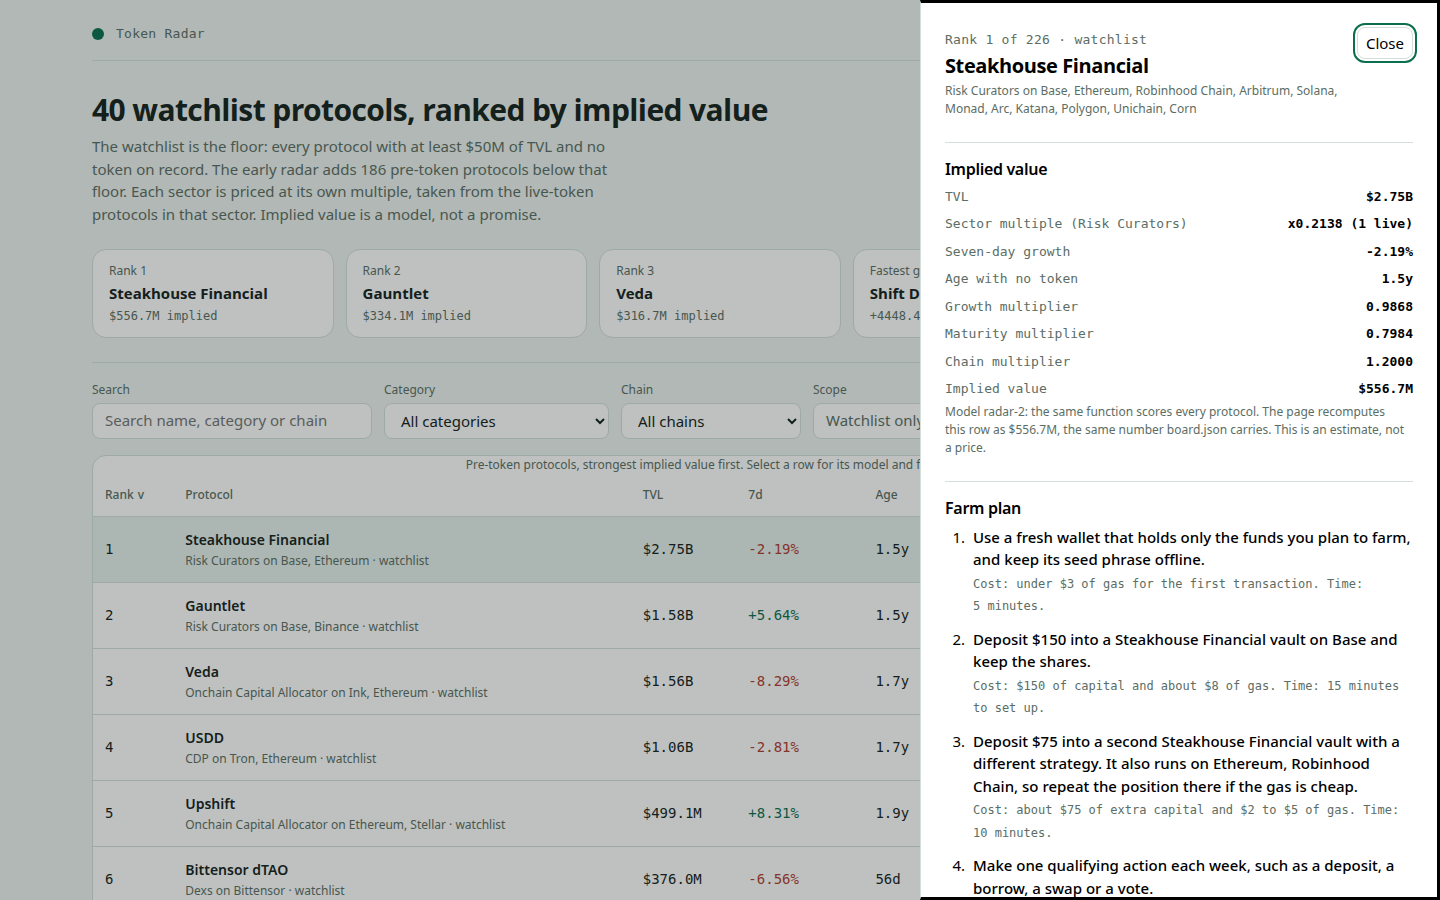
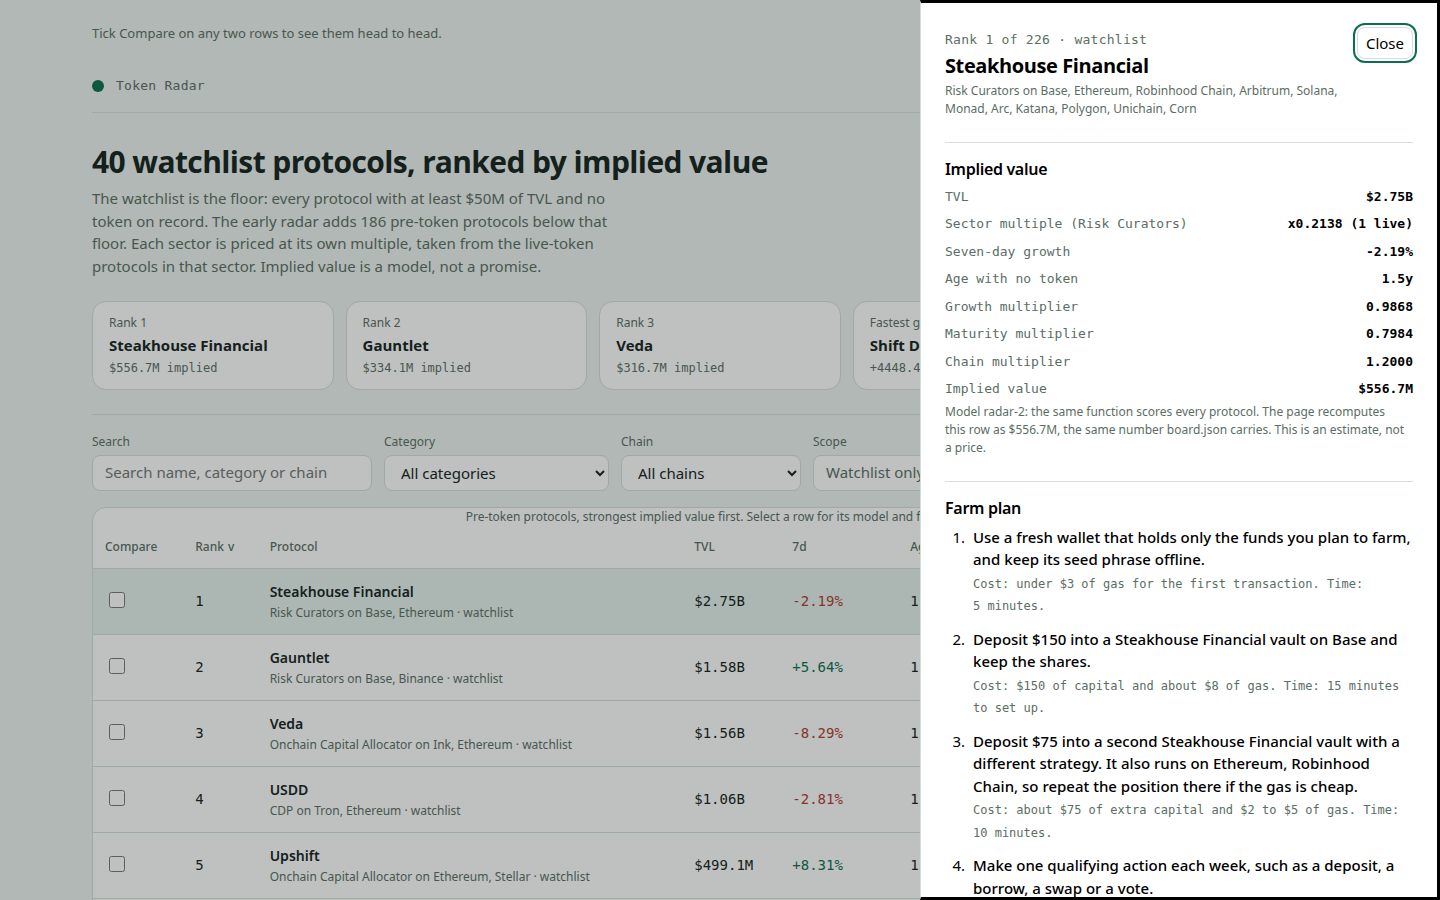
token-radar-01: add protocol compare and CSV export

diff --git a/dashboard/app.js b/dashboard/app.js
@@ -13,7 +13,7 @@
   var DATA = window.RADAR;
   if (!DATA) return;
   var app = document.getElementById('board');
-  var state = { q: '', category: 'all', chain: 'all', watchlistOnly: false, tab: 'pre-token', sort: 'implied', dir: -1, selected: null };
+  var state = { q: '', category: 'all', chain: 'all', watchlistOnly: false, tab: 'pre-token', sort: 'implied', dir: -1, selected: null, compare: new Set(), compareNote: '' };
 
   var usd = new Intl.NumberFormat('en-US', { style: 'currency', currency: 'USD', maximumFractionDigits: 0 });
   function fmtUsd(n) {
@@ -138,6 +138,112 @@
       { text: "Watch " + p.name + "'s own announcements for a token or points update, and ignore claim links that arrive by message or email.", cost: 'nothing to watch', time: '5 minutes a week' },
       { text: 'Write the wallet, the dates and every transaction in a farm log so you can repeat the position or unwind it.', cost: 'nothing but the log', time: '5 minutes' }
     ].map(stepText);
+  }
+
+  // Protocol comparison: pick at most two rows and see them side by side.
+  // The choice lives in a Set of slugs so a row can never be picked twice,
+  // and the panel only appears once exactly two are picked.
+  function rowBySlug(slug) {
+    return DATA.rows.filter(function (r) { return r.slug === slug; })[0] || null;
+  }
+  function toggleCompare(slug, picked) {
+    if (picked) {
+      if (state.compare.size >= 2) {
+        state.compareNote = 'Compare holds at most two protocols — clear one first.';
+        render();
+        return;
+      }
+      state.compare.add(slug);
+      state.compareNote = '';
+    } else {
+      state.compare.delete(slug);
+      state.compareNote = '';
+    }
+    render();
+  }
+  function clearCompare() {
+    state.compare.clear();
+    state.compareNote = '';
+    render();
+  }
+  function leadLine(label, a, b, valueOf, fmt) {
+    var va = valueOf(a), vb = valueOf(b);
+    if (va === null || va === undefined || vb === null || vb === undefined || !isFinite(va) || !isFinite(vb)) return label + ': not comparable here.';
+    if (va === vb) return label + ': tied at ' + fmt(va) + '.';
+    var lead = va > vb ? a : b, trail = va > vb ? b : a;
+    var top = va > vb ? va : vb, bottom = va > vb ? vb : va;
+    return label + ': ' + lead.name + ' leads ' + trail.name + ' (' + fmt(top) + ' vs ' + fmt(bottom) + ').';
+  }
+  function compareCard(row) {
+    function fact(label, value) {
+      return el('div', { class: 'cmp-fact' }, el('span', { text: label }), el('b', { class: 'num', text: value }));
+    }
+    return el('article', { class: 'cmp-card' },
+      el('h3', { text: '#' + row.rank + ' ' + row.name }),
+      el('p', { class: 'sub', text: (row.category || 'Other') + ' · ' + (row.chains || []).join(', ') }),
+      fact('TVL', fmtUsd(row.tvl_usd)),
+      fact('7-day change', fmtPct(row.change_7d)),
+      fact('Chains', String((row.chains || []).length)),
+      fact('Implied value', fmtUsd(row.implied_value_usd)),
+      fact('Rank', '#' + row.rank),
+      fact('Farm steps', String(farmSteps(row).length))
+    );
+  }
+  function syncComparePanel() {
+    var slot = document.getElementById('compare-panel');
+    if (!slot) return;
+    slot.textContent = '';
+    if (state.compare.size < 2) {
+      if (!state.compareNote) { slot.hidden = true; return; }
+      slot.hidden = false;
+      slot.appendChild(el('p', { class: 'cmp-hint', text: state.compareNote }));
+      return;
+    }
+    var picked = Array.from(state.compare).map(rowBySlug).filter(Boolean);
+    if (picked.length < 2) { slot.hidden = true; return; }
+    var a = picked[0], b = picked[1];
+    var verdicts = [
+      leadLine('TVL', a, b, function (r) { return r.tvl_usd; }, fmtUsd),
+      leadLine('Implied value', a, b, function (r) { return r.implied_value_usd; }, fmtUsd),
+      leadLine('7-day growth', a, b, function (r) { return r.change_7d; }, fmtPct),
+      leadLine('Chains', a, b, function (r) { return (r.chains || []).length; }, function (n) { return String(n); })
+    ];
+    slot.hidden = false;
+    slot.appendChild(el('div', { class: 'cmp-head' },
+      el('h2', { text: 'Head to head: ' + a.name + ' vs ' + b.name }),
+      el('button', { type: 'button', class: 'button cmp-clear', text: 'Clear comparison', onclick: clearCompare })
+    ));
+    slot.appendChild(el('div', { class: 'cmp-grid' }, compareCard(a), compareCard(b)));
+    slot.appendChild(el('ul', { class: 'cmp-verdicts' }, verdicts.map(function (v) { return el('li', { text: v }); })));
+  }
+
+  // CSV export: the filtered board, as a file, with no server round-trip.
+  // The header names the columns; each row is one filtered protocol, quoted
+  // only when a value itself holds a comma, a quote or a newline.
+  function csvCell(value) {
+    var text = value === null || value === undefined ? '' : String(value);
+    return /[",\n]/.test(text) ? '"' + text.replace(/"/g, '""') + '"' : text;
+  }
+  function exportCsv() {
+    var list = sortedRows(rows());
+    var head = ['rank', 'name', 'category', 'tvl_usd', 'change_7d_pct', 'chains', 'implied_value_usd'];
+    var lines = [head.join(',')];
+    list.forEach(function (r) {
+      lines.push([
+        r.rank, r.name, r.category || '', r.tvl_usd,
+        r.change_7d === null || r.change_7d === undefined ? '' : r.change_7d,
+        (r.chains || []).join('; '), r.implied_value_usd
+      ].map(csvCell).join(','));
+    });
+    var blob = new Blob(['\ufeff' + lines.join('\n')], { type: 'text/csv;charset=utf-8' });
+    var url = URL.createObjectURL(blob);
+    var link = document.createElement('a');
+    link.href = url;
+    link.download = 'token-radar-board.csv';
+    document.body.appendChild(link);
+    link.click();
+    link.remove();
+    setTimeout(function () { URL.revokeObjectURL(url); }, 1000);
   }
 
   function readHash() {
@@ -293,6 +399,13 @@
         onclick: function () { openDetail(r.slug); },
         onkeydown: function (e) { if (e.key === 'Enter' || e.key === ' ') { e.preventDefault(); openDetail(r.slug); } }
       },
+        el('td', null, el('input', {
+          type: 'checkbox', class: 'compare-box', 'aria-label': 'Compare ' + r.name,
+          checked: state.compare.has(r.slug) ? 'checked' : null,
+          onclick: function (e) { e.stopPropagation(); },
+          onkeydown: function (e) { e.stopPropagation(); },
+          onchange: function (e) { toggleCompare(r.slug, e.target.checked); }
+        })),
         el('td', { class: 'num', text: String(r.rank) }),
         el('td', null, el('div', { class: 'name' },
           el('b', { text: r.name }),
@@ -314,6 +427,7 @@
         el('table', null,
           el('caption', { class: 'sub', text: 'Pre-token protocols, strongest implied value first. Select a row for its model and farm plan.' }),
           el('thead', null, el('tr', null,
+            el('th', { scope: 'col', text: 'Compare' }),
             sortHeader('implied', 'Rank'),
             sortHeader('name', 'Protocol'),
             sortHeader('tvl', 'TVL'),
@@ -433,6 +547,7 @@
     shell.appendChild(lede());
     if (state.tab === 'pre-token') shell.appendChild(highlights());
     shell.appendChild(controls());
+    syncComparePanel();
     shell.appendChild(state.tab === 'pre-token' ? boardTable() : liveTable());
     if (state.tab === 'pre-token') shell.appendChild(modelPanel());
     app.appendChild(shell);
@@ -443,6 +558,8 @@
 
   readHash();
   render();
+  var exportBtn = document.getElementById('export-csv');
+  if (exportBtn) exportBtn.addEventListener('click', exportCsv);
   window.addEventListener('keydown', function (e) {
     if (e.key === 'Escape' && dialog.open) dialog.close();
   });

diff --git a/dashboard/app.css b/dashboard/app.css
@@ -124,6 +124,38 @@ tbody tr[data-selected="true"] { background: color-mix(in srgb, var(--accent) 10
 .button { min-height: 36px; padding: 0 var(--step-4); border: 1px solid var(--border); border-radius: var(--radius-control); background: var(--surface); }
 .button.primary { background: var(--accent); border-color: var(--accent); color: var(--surface); }
 
+/* Page tools: the CSV export sits above the board, outside the app shell. */
+.page-tools {
+  max-width: 1320px; margin: 0 auto; padding: var(--step-4) var(--step-6) 0;
+  display: flex; align-items: center; justify-content: space-between; gap: var(--step-4);
+}
+.tools-note { color: var(--muted); font-size: 13px; }
+.export-btn {
+  min-height: 36px; padding: 0 var(--step-4); border: 1px solid var(--accent);
+  border-radius: var(--radius-control); background: var(--accent); color: var(--surface); font-weight: 600;
+}
+.export-btn:hover { background: color-mix(in srgb, var(--accent) 85%, var(--ink)); }
+
+/* Protocol comparison: hidden until exactly two rows are picked. */
+.compare-panel[hidden] { display: none; }
+.compare-panel {
+  max-width: 1320px; margin: var(--step-4) auto 0; padding: 0 var(--step-6);
+}
+.cmp-head { display: flex; align-items: center; justify-content: space-between; gap: var(--step-4); padding-bottom: var(--step-3); }
+.cmp-head h2 { font-size: 18px; }
+.cmp-clear { flex: none; }
+.cmp-grid { display: grid; grid-template-columns: repeat(2, minmax(0, 1fr)); gap: var(--step-3); }
+.cmp-card {
+  display: grid; gap: var(--step-2); padding: var(--step-4);
+  background: var(--surface); border: 1px solid var(--border); border-radius: var(--radius-panel);
+}
+.cmp-card h3 { font-size: 16px; overflow-wrap: anywhere; }
+.cmp-fact { display: flex; align-items: baseline; justify-content: space-between; gap: var(--step-3); border-top: 1px solid var(--border); padding-top: var(--step-2); }
+.cmp-fact span { color: var(--muted); font-size: 13px; }
+.cmp-verdicts { margin: var(--step-3) 0 0; padding: var(--step-3) var(--step-4); display: grid; gap: var(--step-1); background: var(--accent-soft); border: 1px solid var(--border); border-radius: var(--radius-panel); list-style: none; font-size: 13px; }
+.cmp-hint { color: var(--negative); font-size: 13px; }
+.compare-box { width: 16px; height: 16px; accent-color: var(--accent); cursor: pointer; }
+
 .detail {
   position: fixed; top: 0; right: 0; bottom: 0; width: min(520px, 92vw); z-index: 10;
   background: var(--surface); border-left: 1px solid var(--border); padding: var(--step-5);

diff --git a/dashboard/index.html b/dashboard/index.html
@@ -8,6 +8,11 @@
 </head>
 <body>
 <a class="skip" href="#board">Skip to the board</a>
+<div class="page-tools">
+  <span class="tools-note">Tick Compare on any two rows to see them head to head.</span>
+  <button id="export-csv" class="export-btn" type="button">Export CSV</button>
+</div>
+<section id="compare-panel" class="compare-panel" hidden aria-label="Protocol comparison"></section>
 <main id="board" tabindex="-1" aria-busy="true"></main>
 <script src="../data.js"></script>
 <script src="app.js"></script>
